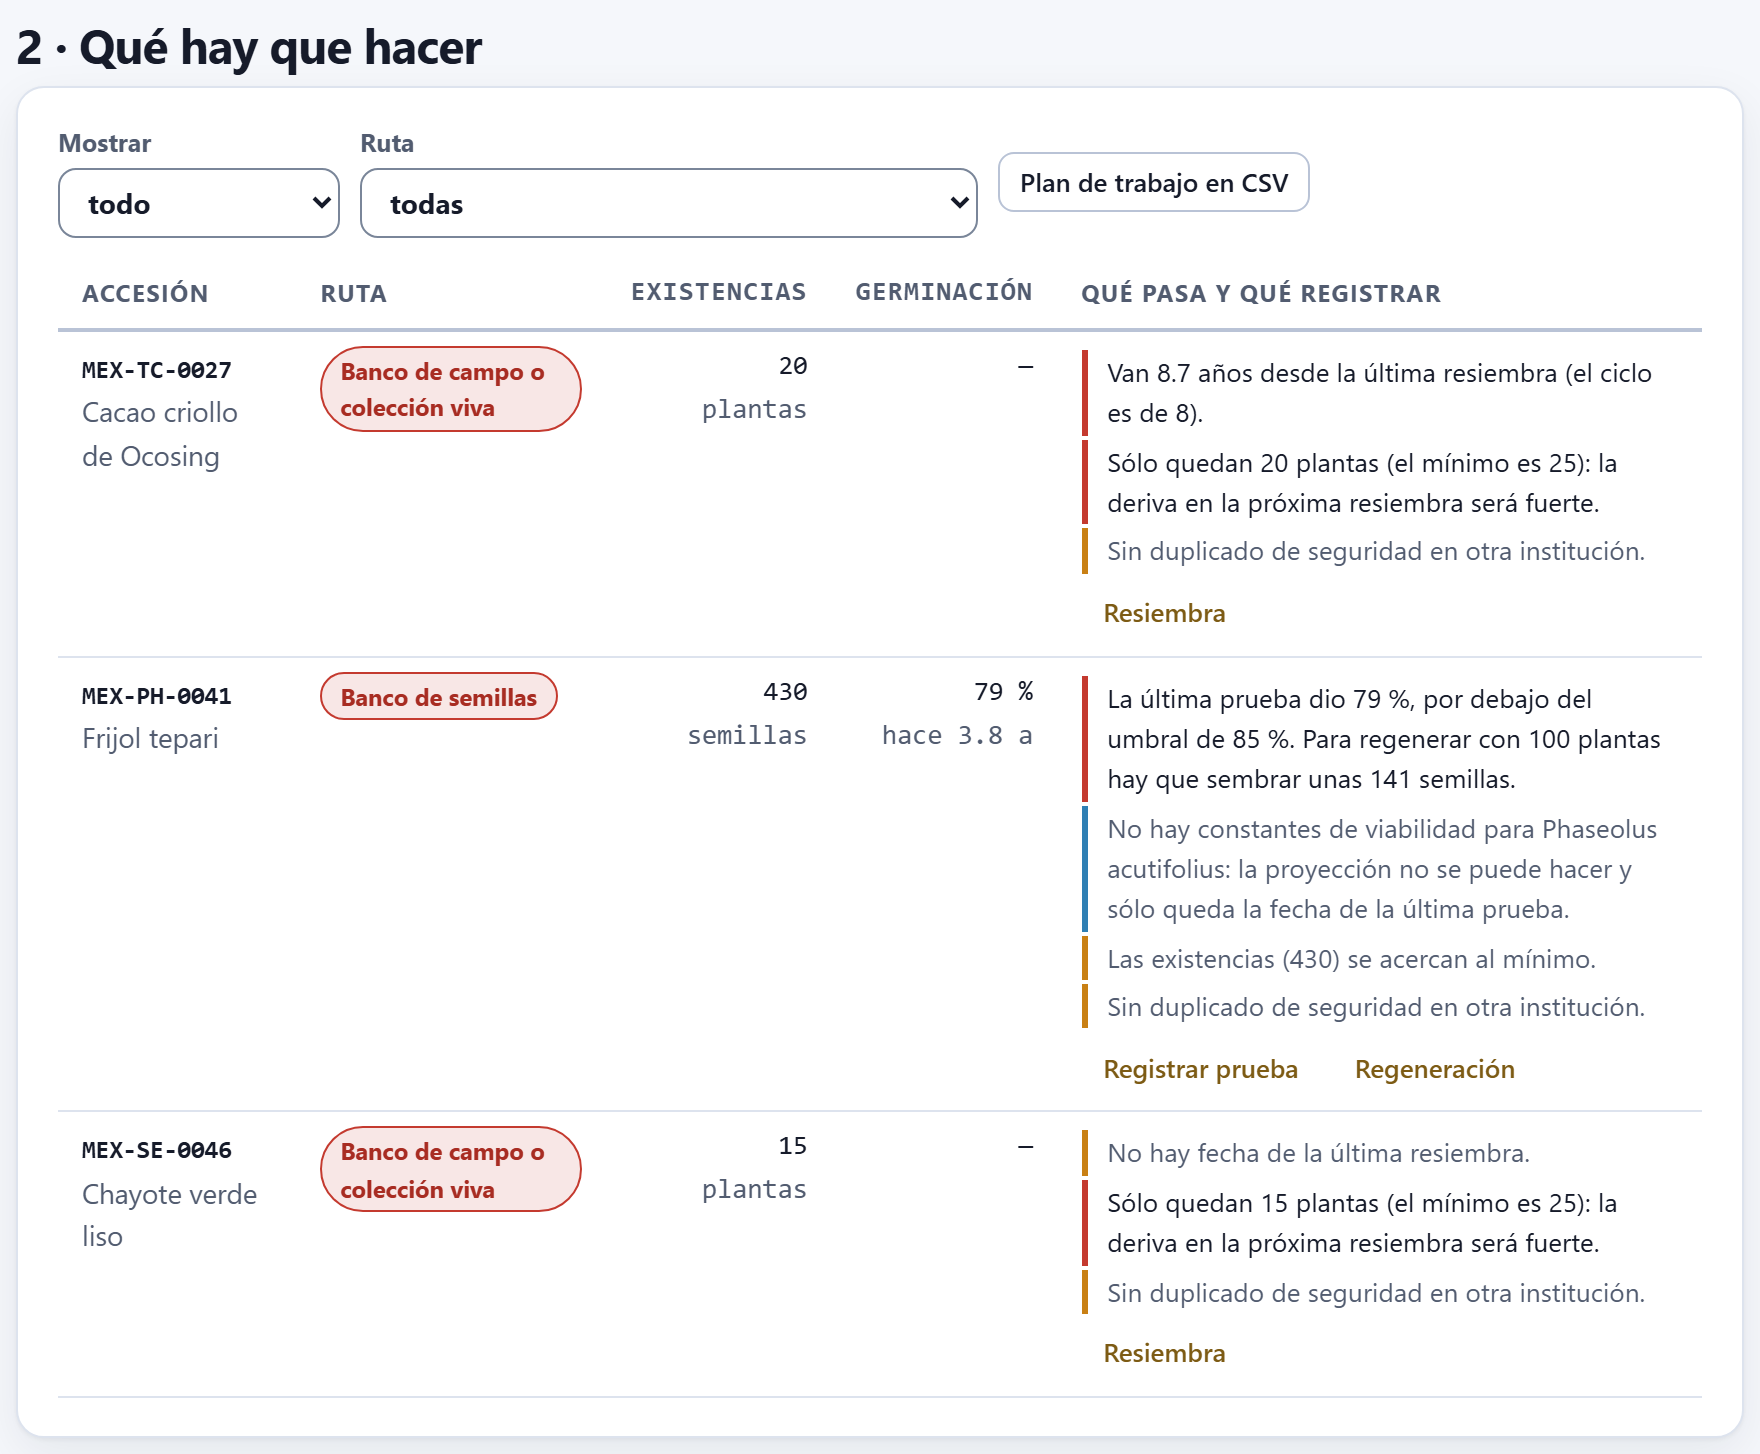
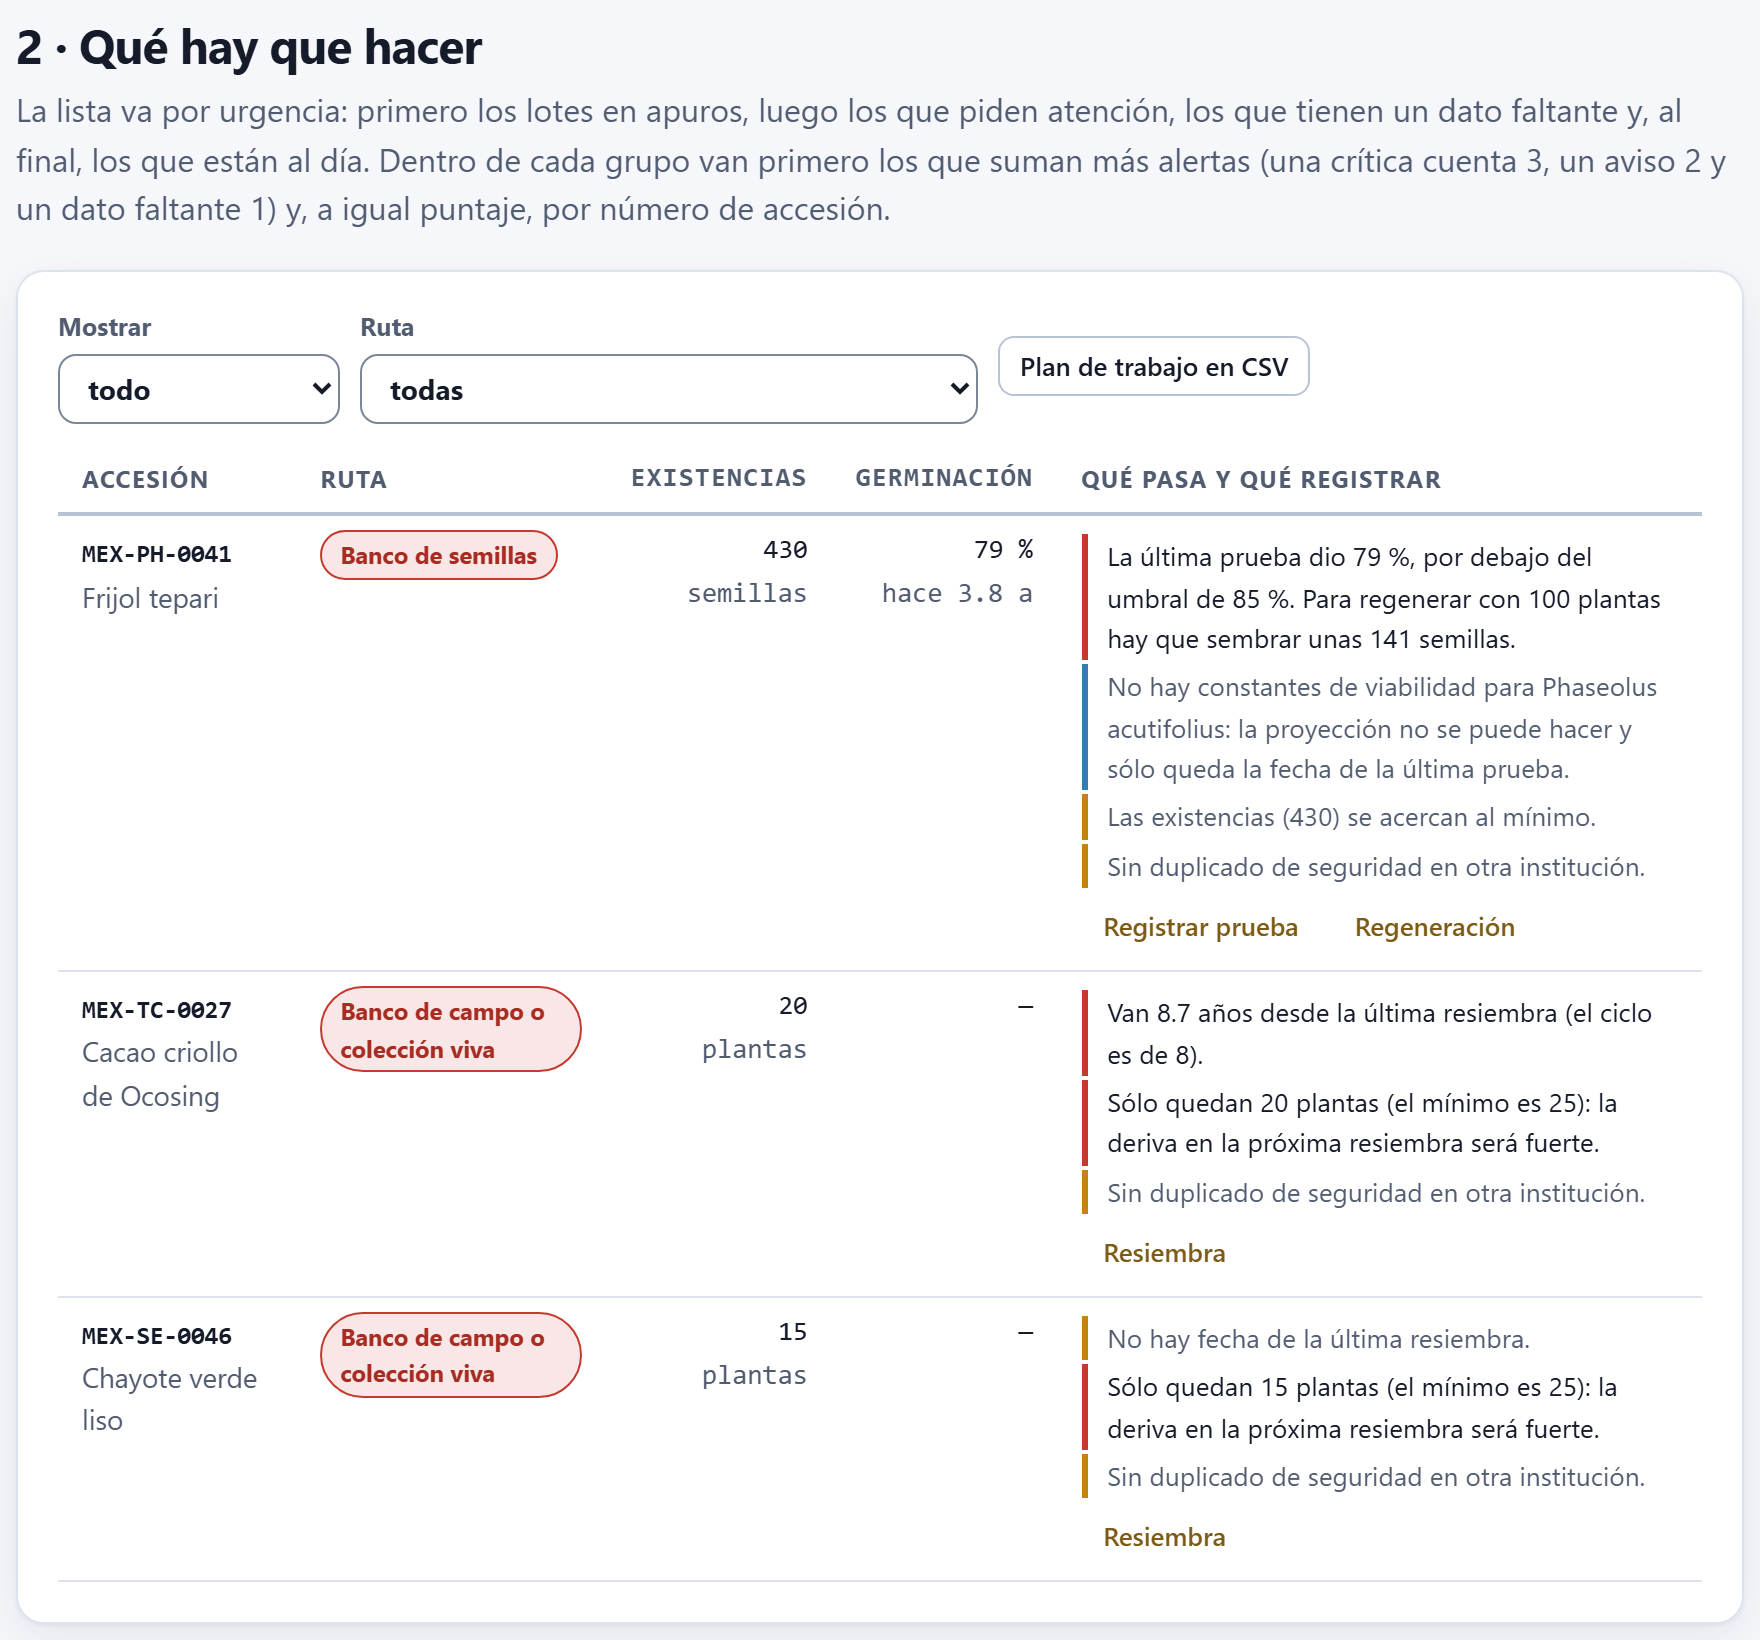
Manual en español: capítulo 8 con el nuevo orden de la lista de trabajo, el eje entero de la carga y el registro de prueba al cancelar

diff --git a/manual/es/08-bloque8.html b/manual/es/08-bloque8.html
@@ -181,18 +181,19 @@
 
   <!-- 8.5 -->
   <h2 id="b8-5"><span class="num">8.5</span>La lista de trabajo</h2>
-  <p>La sección <span class="ui">2 · Qué hay que hacer</span> es la lista de la temporada: una fila por accesión, ordenada por urgencia. El <b>puntaje</b> de una accesión es la suma de los puntos de sus alertas (3, 2 o 1); la lista va de mayor a menor puntaje y, a igual puntaje, del nivel más grave al más leve; si siguen empatadas, en el orden del pasaporte. Muestra hasta 200 filas.</p>
+  <p>La sección <span class="ui">2 · Qué hay que hacer</span> es la lista de la temporada: una fila por accesión, ordenada por urgencia, como lo explica el párrafo bajo el título. Primero va el <b>nivel</b>: las accesiones en apuros, luego las que piden atención, las que tienen un dato faltante y, al final, las que están al día. Dentro de cada nivel, el <b>puntaje</b>, la suma de los puntos de sus alertas (3, 2 o 1), de mayor a menor; a igual puntaje, el número de accesión, en orden alfabético. Muestra hasta 200 filas.</p>
   <div class="caja ejemplo">
     <div class="caja-t"><span class="ico">▸</span>Ejemplo · el orden de las primeras filas</div>
     <table class="compacta cuenta"><tbody>
-      <tr><td colspan="2">MEX-TC-0027, cacao: resiembra atrasada (8.7 &gt; 8 años) 3 + 20 plantas &lt; 25 → 3 + sin duplicado 2 = 8</td></tr>
       <tr><td colspan="2">MEX-PH-0041, frijol tépari: 79 % &lt; 85 → 3 + sin constantes 1 + 430 &lt; 600 → 2 + sin duplicado 2 = 8</td></tr>
+      <tr><td colspan="2">MEX-TC-0027, cacao: resiembra atrasada (8.7 &gt; 8 años) 3 + 20 plantas &lt; 25 → 3 + sin duplicado 2 = 8</td></tr>
       <tr><td colspan="2">MEX-SE-0046, chayote: sin fecha de resiembra 2 + 15 plantas → 3 + sin duplicado 2 = 7</td></tr>
-      <tr><td colspan="2">MEX-SE-0013, frijol vaquita: 84 % → 3 + sin constantes 1 + sin duplicado 2 = 6;  MEX-PA-0026, aguacate: 3 + 3 = 6</td></tr>
-      <tr><td colspan="2">MEX-ZM-0043, maíz ancho de riego: 72 % → 3 + sin duplicado 2 = 5 (grave);  MEX-CH-0042, chile costeño: 1 + 2 + 2 = 5 (atención)</td></tr>
-      <tr><td colspan="2">PER-ST-0022, papa criopreservada: revisión 2 + sin duplicado 2 = 4;  MEX-CA-0028, café: 2 + 2 = 4;  MEX-ZP-0011, teocintle: 3</td></tr>
+      <tr><td colspan="2">MEX-PA-0026, aguacate: 3 + 3 = 6;  MEX-SE-0013, frijol vaquita: 84 % → 3 + sin constantes 1 + sin duplicado 2 = 6</td></tr>
+      <tr><td colspan="2">MEX-ZM-0043, maíz ancho de riego: 72 % → 3 + sin duplicado 2 = 5</td></tr>
+      <tr><td colspan="2">COL-MA-0035, MEX-VA-0025, MEX-ZP-0011 y PER-ST-0021: una sola alerta grave, 3 cada uno</td></tr>
+      <tr><td colspan="2">pide atención: MEX-CH-0042, chile costeño: 1 + 2 + 2 = 5;  MEX-CA-0028 y PER-ST-0022: 2 + 2 = 4;  …</td></tr>
     </tbody></table>
-    <p>Los dos primeros empatan con 8 puntos y nivel grave, así que quedan en el orden del pasaporte; el maíz ancho de riego va antes que el chile porque, con el mismo puntaje, su alerta es grave. El teocintle, con una sola alerta grave y con duplicado de seguridad, queda después de dos accesiones que sólo piden atención: el puntaje premia acumular problemas. Por eso conviene mirar también el filtro <span class="ui">en apuros</span>. Las 9 accesiones al día van al final, con 0 puntos.</p>
+    <p>Las 10 accesiones en apuros van primero, aunque el teocintle sólo sume 3 puntos y el chile costeño, que sólo pide atención, sume 5. Los dos primeros empatan con 8 puntos, y el frijol tépari va antes que el cacao por su número de accesión (MEX-PH antes que MEX-TC); lo mismo el aguacate y el frijol vaquita, con 6, y los cuatro lotes de 3 puntos. Después de las 21 que piden atención vienen las 6 con un dato faltante y, al final, las 9 al día.</p>
   </div>
   <table class="compacta">
     <caption><b>Tabla 8.5.</b> Las columnas de la lista de trabajo.</caption>
@@ -206,14 +207,14 @@
     </tbody>
   </table>
   <figure class="angosta">
-    <div class="marco"><img src="../img/b8-tareas.png" alt="La sección 2: los selectores Mostrar en todo y Ruta en todas, el botón Plan de trabajo en CSV y las tres primeras filas de la tabla: MEX-TC-0027, Cacao criollo de Ocosing, Banco de campo o colección viva, 20 plantas, germinación —, tres alertas y el botón Resiembra; MEX-PH-0041, Frijol tepari, Banco de semillas, 430 semillas, 79 % hace 3.8 a, la alerta La última prueba dio 79 %, por debajo del umbral de 85 %. Para regenerar con 100 plantas hay que sembrar unas 141 semillas, y tres más, con los botones Registrar prueba y Regeneración; MEX-SE-0046, Chayote verde liso, 15 plantas, tres alertas y el botón Resiembra"></div>
-    <figcaption><b>Figura 8.4.</b> Las tres primeras filas de la lista de trabajo, con 8, 8 y 7 puntos.</figcaption>
+    <div class="marco"><img src="../img/b8-tareas.png" alt="La sección 2: el párrafo La lista va por urgencia, primero los lotes en apuros, luego los que piden atención, los que tienen un dato faltante y al final los que están al día, dentro de cada grupo primero los que suman más alertas y a igual puntaje por número de accesión; los selectores Mostrar en todo y Ruta en todas, el botón Plan de trabajo en CSV y las tres primeras filas de la tabla: MEX-PH-0041, Frijol tepari, Banco de semillas, 430 semillas, 79 % hace 3.8 a, la alerta La última prueba dio 79 %, por debajo del umbral de 85 %. Para regenerar con 100 plantas hay que sembrar unas 141 semillas, y tres más, con los botones Registrar prueba y Regeneración; MEX-TC-0027, Cacao criollo de Ocosing, Banco de campo o colección viva, 20 plantas, germinación —, tres alertas y el botón Resiembra; MEX-SE-0046, Chayote verde liso, 15 plantas, tres alertas y el botón Resiembra"></div>
+    <figcaption><b>Figura 8.4.</b> El párrafo que explica el orden y las tres primeras filas de la lista de trabajo, en apuros con 8, 8 y 7 puntos.</figcaption>
   </figure>
   <p>Dos selectores filtran la lista. <span class="ui">Mostrar</span> deja <span class="ui">todo</span>, sólo las accesiones <span class="ui">en apuros</span> (10), las que <span class="ui">piden atención</span> (21), las que tienen <span class="ui">faltan datos</span> (6) o las que están <span class="ui">al día</span> (9). <span class="ui">Ruta</span> deja una sola ruta; cada opción dice cuántas accesiones tiene, por ejemplo <span class="ui">Banco de semillas (28)</span> o <span class="ui">sin declarar (1)</span>, que deja sólo el chile costeño (MEX-CH-0042).</p>
 
   <!-- 8.6 -->
   <h2 id="b8-6"><span class="num">8.6</span>Registrar lo que se hace y el plan en CSV</h2>
-  <p>Los botones de cada fila escriben en el pasaporte lo que hiciste hoy. Cada ruta tiene los suyos y funcionan con las ventanas de pregunta del navegador; si cancelas la primera, no se guarda nada. Al terminar, el pasaporte se guarda en el navegador, la tabla del Bloque 2 se actualiza y el Bloque 8 se recalcula.</p>
+  <p>Los botones de cada fila escriben en el pasaporte lo que hiciste hoy. Cada ruta tiene los suyos y funcionan con las ventanas de pregunta del navegador; si cancelas la primera pregunta, no se guarda nada, y en <span class="ui">Registrar prueba</span> tampoco si cancelas la segunda. En <span class="ui">Regeneración</span>, cancelar la pregunta de la germinación equivale a dejarla vacía: la regeneración se registra sin prueba. Al terminar, el pasaporte se guarda en el navegador, la tabla del Bloque 2 se actualiza y el Bloque 8 se recalcula.</p>
   <table class="compacta">
     <caption><b>Tabla 8.6.</b> Los botones de cada ruta (la fecha que escriben es la de hoy, en AAAAMMDD).</caption>
     <thead><tr><th style="width:1.35in">Botón · ruta</th><th style="width:2.4in">Pregunta</th><th>Cambia en el pasaporte</th></tr></thead>
@@ -245,7 +246,7 @@
   <h2 id="b8-7"><span class="num">8.7</span>Cuántas plantas y cuántas semillas</h2>
   <p>La sección <span class="ui">3 · Cuántas plantas y cuántas semillas</span> tiene dos paneles. El de la izquierda, <span class="ui">Plantas necesarias</span>, responde la pregunta de toda regeneración: con cuántas plantas no se pierden los alelos raros. Tiene tres deslizadores: <span class="ui">Frecuencia del alelo a conservar</span> (1 a 20 %, de fábrica 5 %), <span class="ui">Seguridad deseada</span> (80 a 99 %, de fábrica 95 %) y <span class="ui">Germinación del lote (%)</span> (20 a 100 % en pasos de 5, de fábrica 85 %). El resultado cambia mientras arrastras.</p>
   <figure style="width:66%;margin-left:auto;margin-right:auto">
-    <div class="marco"><img src="../img/b8-calculo.png" alt="La sección 3: a la izquierda, el panel Plantas necesarias con Frecuencia del alelo a conservar 5 %, Seguridad deseada 95 % y Germinación del lote 85 %; especie alógama 30 plantas y 40 semillas a sembrar; especie autógama 59 plantas y 78 semillas; Regeneración del banco (supuestos) 100 plantas y 131 semillas; y la nota de que con las 100 plantas la probabilidad es de más de 99.99 % en una alógama y de 99.41 % en una autógama; a la derecha, la gráfica de barras Carga de trabajo de los próximos 25 años con escala 0, 12.5 y 25, picos de 25 tareas en los años 7 y 17, subcultivos en azul todos los años, regeneraciones y resiembras en el año 0, y la leyenda de cuatro series"></div>
+    <div class="marco"><img src="../img/b8-calculo.png" alt="La sección 3: a la izquierda, el panel Plantas necesarias con Frecuencia del alelo a conservar 5 %, Seguridad deseada 95 % y Germinación del lote 85 %; especie alógama 30 plantas y 40 semillas a sembrar; especie autógama 59 plantas y 78 semillas; Regeneración del banco (supuestos) 100 plantas y 131 semillas; y la nota de que con las 100 plantas la probabilidad es de más de 99.99 % en una alógama y de 99.41 % en una autógama; a la derecha, la gráfica de barras Carga de trabajo de los próximos 25 años con escala 0, 13 y 25, picos de 25 tareas en los años 7 y 17, subcultivos en azul todos los años, regeneraciones y resiembras en el año 0, y la leyenda de cuatro series"></div>
     <figcaption><b>Figura 8.5.</b> La calculadora de tamaño de muestra con sus valores de fábrica y la carga de trabajo de la colección de ejemplo.</figcaption>
   </figure>
   <div class="caja teoria">
@@ -291,7 +292,7 @@
     </tbody></table>
     <p>Los dos picos son los 22 lotes probados entre marzo y abril de 2024: sus pruebas vencen juntas dentro de 7.4 años y se repiten diez años después. Es el caso que la nota del panel señala: conviene adelantar parte de esas pruebas para repartirlas en los años vecinos. Otros cuatro lotes, probados en 2023, caen en el año +6.</p>
   </div>
-  <p>La gráfica tiene un texto alternativo con el resumen —totales, el año +0 y el año más cargado— para los lectores de pantalla. Al pasar el puntero sobre un segmento, una etiqueta dice el año, cuántas tareas hay y, en las regeneraciones, cuántas plantas suman: <span class="ui">año +0: 4 regeneraciones (≈ 400 plantas)</span>. La escala vertical tiene tres marcas: 0, la mitad y el máximo (con la colección de ejemplo, 0, 12.5 y 25). La gráfica también entra en el informe del Bloque 10 (capítulo 10).</p>
+  <p>La gráfica tiene un texto alternativo con el resumen —totales, el año +0 y el año más cargado— para los lectores de pantalla. Al pasar el puntero sobre un segmento, una etiqueta dice el año, cuántas tareas hay y, en las regeneraciones, cuántas plantas suman: <span class="ui">año +0: 4 regeneraciones (≈ 400 plantas)</span>. La escala vertical tiene tres marcas: 0, la mitad y el máximo (con la colección de ejemplo, 0, 13 y 25). La gráfica también entra en el informe del Bloque 10 (capítulo 10).</p>
   <p>La carga cambia con los supuestos. Con pruebas cada 5 años, los picos de 22 pruebas se repiten en los años 2, 7, 12, 17 y 22. Con 24 meses entre subcultivos, cada frasco se subcultiva 13 veces en 26 años y no 26. Con la cámara a 5 °C y 8 % de humedad, a las 4 regeneraciones del año +0 se suman otras en los años 6, 10, 13, 17 y 21; a 20 °C y 12 %, 16 regeneraciones caen en el año +0.</p>
 
   <!-- 8.9 -->

diff --git a/manual/herramientas/recetas/b8-tareas.js b/manual/herramientas/recetas/b8-tareas.js
@@ -18,7 +18,7 @@
   Object.assign(B8.view, { filter: "all", route: "", sort: "score" });
   B8.run(); await W(800);
   const s = seccion("2");
-  const tw = s[1].querySelector(".table-wrap"), f = tw.querySelectorAll("tbody tr")[2];
+  const tw = document.querySelector("#b8Body .table-wrap"), f = tw.querySelectorAll("tbody tr")[2];
   tw.style.maxHeight = Math.ceil(f.getBoundingClientRect().bottom - tw.getBoundingClientRect().top + 1) + "px";
   await irA(s[0]);
   return caja(s, 8);
